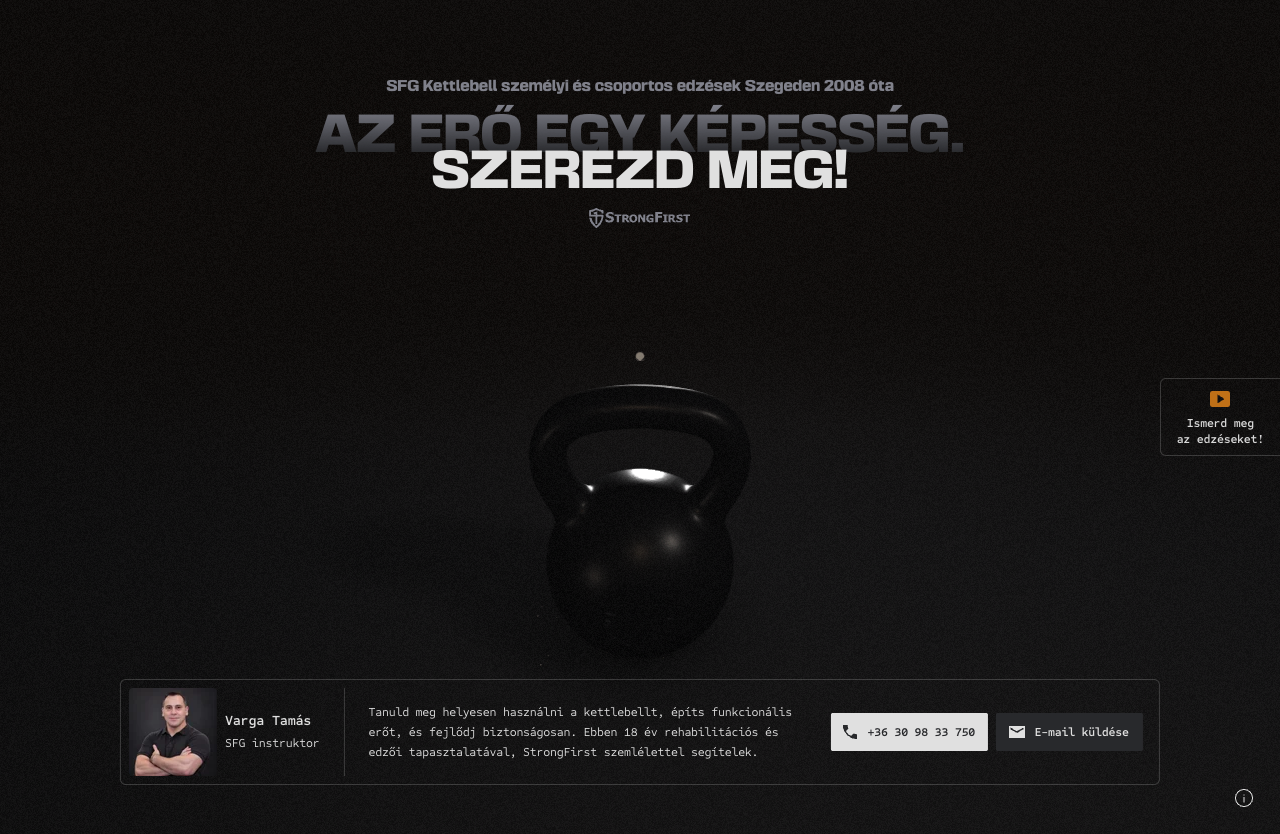
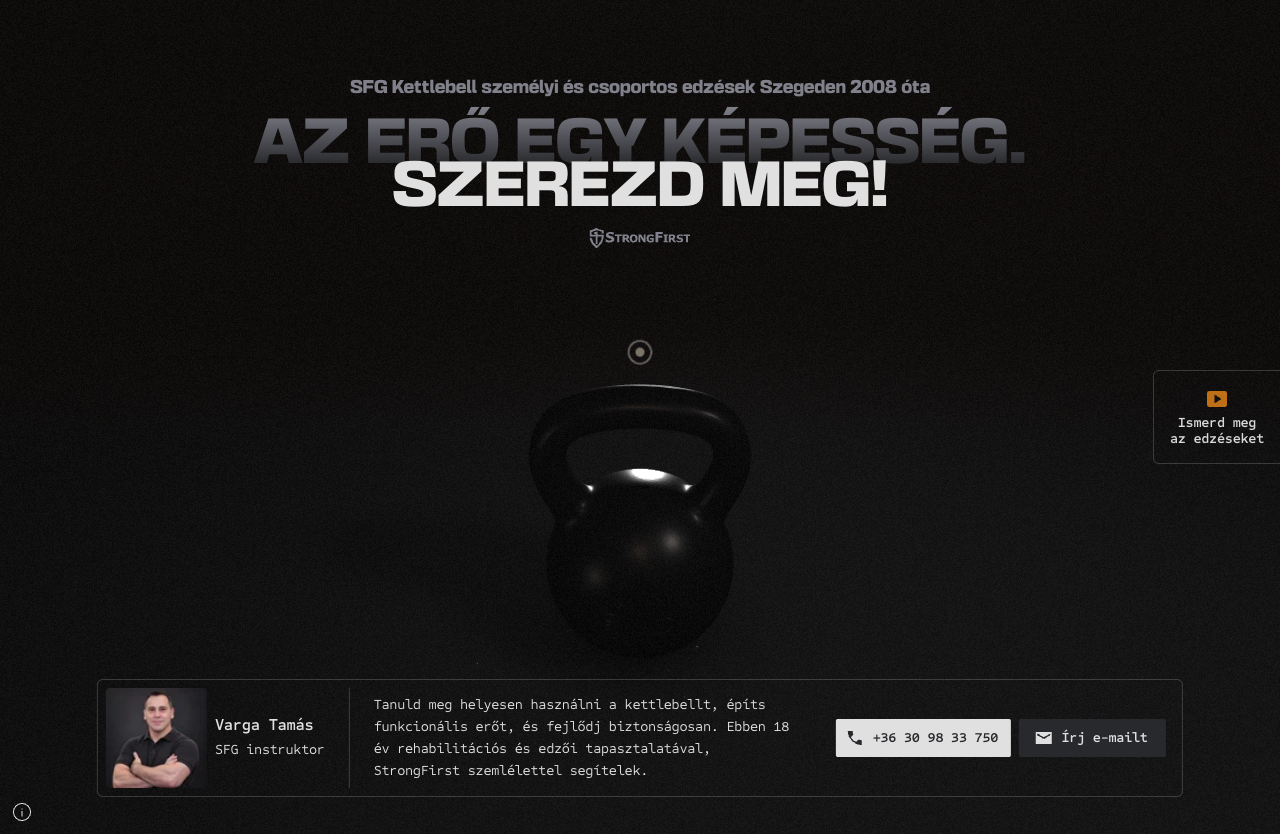
Typography and responsive refinements, Figma sync
- Promo bar gradient background; text sizes synced with the current Figma (eyebrow, tags, name, role, text)
- Avatar 101x100, desktop video tab padding 16, mobile video tab 48px high, panel offsets per Figma
- Desktop H0 headline scaled via --h0-scale (1.19), mobile unchanged
- Tablet (600-959px): wider profile card and video CTA; phones: contact buttons text only
- Buttons, video tab and promo bar text 14px; new texts "Írj e-mailt" and "Ismerd meg az edzéseket"
- Global --fs-boost token kept at 0; docs and screenshots updated

diff --git a/src/styles/global.css b/src/styles/global.css
@@ -20,8 +20,8 @@ body {
   min-height: 100svh;
   font-family: var(--font-mono);
   font-weight: 400;
-  font-size: 10px;
-  line-height: 16px;
+  font-size: calc(10px + var(--fs-boost));
+  line-height: calc(16px + var(--fs-boost));
   letter-spacing: -0.02em;
   background: transparent;
   overflow-x: hidden;
@@ -146,8 +146,8 @@ a {
   display: block;
   width: min-content;
   min-width: 100%;
-  font-size: 14px;
-  line-height: 17px;
+  font-size: calc(16px + var(--fs-boost));
+  line-height: normal;
   letter-spacing: -0.02em;
   color: var(--eyebrow-color);
   transition: color var(--t) var(--ease);
@@ -231,8 +231,8 @@ a {
   padding: 4px 8px;
   border-bottom: 1px solid var(--light-gray-20);
   font-style: italic;
-  font-size: 12px;
-  line-height: 14px;
+  font-size: calc(14px + var(--fs-boost));
+  line-height: calc(22px + var(--fs-boost));
   letter-spacing: -0.02em;
   white-space: nowrap;
   color: var(--light-gray);
@@ -243,7 +243,7 @@ a {
   position: absolute;
   z-index: 2;
   left: 50%;
-  bottom: 54px;
+  bottom: 64px; /* 48px video tab + 16px gap (Figma mobile) */
   transform: translateX(-50%);
   display: flex;
   flex-direction: column;
@@ -274,8 +274,8 @@ a {
 }
 .banner__avatar {
   flex: none;
-  width: 88px;
-  height: 88px;
+  width: 101px;
+  height: 100px;
   border-radius: 4px;
   object-fit: cover;
   object-position: bottom;
@@ -284,17 +284,18 @@ a {
   display: flex;
   flex-direction: column;
   gap: 4px;
-  width: max-content;
+  width: 204px; /* Figma mobile: 101px avatar + 8px gap + 204px = the 313px profile width */
 }
 .banner__name {
   font-weight: 600;
-  font-size: 14px;
-  line-height: normal;
+  font-size: calc(16px + var(--fs-boost));
+  line-height: calc(20px + var(--fs-boost));
   letter-spacing: -0.02em;
 }
 .banner__role {
-  font-size: 12px;
-  line-height: 20px;
+  font-size: calc(14px + var(--fs-boost));
+  line-height: calc(22px + var(--fs-boost));
+  letter-spacing: -0.02em;
   white-space: nowrap;
 }
 .banner__divider {
@@ -305,8 +306,8 @@ a {
   transition: background-color var(--t) var(--ease);
 }
 .banner__text {
-  font-size: 12px;
-  line-height: 20px;
+  font-size: calc(14px + var(--fs-boost));
+  line-height: calc(22px + var(--fs-boost));
   letter-spacing: -0.02em;
 }
 .banner__actions {
@@ -327,8 +328,8 @@ a {
   border: 1px solid transparent;
   border-radius: 2px;
   font-weight: 600;
-  font-size: 12px;
-  line-height: 16px;
+  font-size: calc(14px + var(--fs-boost));
+  line-height: calc(16px + var(--fs-boost));
   letter-spacing: -0.02em;
   white-space: nowrap;
   transition: background-color 0.2s var(--ease), color 0.2s var(--ease), box-shadow 0.2s var(--ease),
@@ -388,7 +389,7 @@ a {
   justify-content: center;
   gap: 4px;
   width: min(330px, calc(100% - 32px));
-  height: 38px;
+  height: 48px; /* Figma mobile video tab */
   padding: 8px;
   border: 1px solid var(--tab-border);
   border-bottom: 0;
@@ -396,8 +397,8 @@ a {
   background: var(--tab-bg);
   color: var(--tab-text);
   font-weight: 600;
-  font-size: 12px;
-  line-height: 16px;
+  font-size: calc(14px + var(--fs-boost));
+  line-height: calc(16px + var(--fs-boost));
   letter-spacing: -0.02em;
   text-align: center;
   transition: background-color var(--t) var(--ease), border-color var(--t) var(--ease),
@@ -443,11 +444,17 @@ a {
   box-sizing: border-box;
   min-height: 36px;
   padding: 8px 16px;
-  background: var(--white);
+  /* Figma gradient: left to right, transparent white at 15.215 %, white at 51.442 %, transparent at 85.226 % */
+  background: linear-gradient(
+    90deg,
+    rgba(255, 255, 255, 0) 15.215%,
+    #fff 51.442%,
+    rgba(255, 255, 255, 0) 85.226%
+  );
   color: var(--black);
   font-weight: 400;
-  font-size: 12px;
-  line-height: 20px;
+  font-size: calc(14px + var(--fs-boost));
+  line-height: calc(20px + var(--fs-boost));
   letter-spacing: -0.02em;
   text-align: center;
   text-wrap: balance;
@@ -473,7 +480,14 @@ a {
 }
 .promo strong {
   font-weight: 600;
-  line-height: 16px;
+  line-height: calc(16px + var(--fs-boost));
+}
+/* Mobile (no Figma frame): the text fills almost the whole bar, so the white plateau is widened and only the outer
+   6 % fade; with the desktop stops the black text would sit on the dark page at the sides. */
+@media (max-width: 959.98px) {
+  .promo {
+    background: linear-gradient(90deg, rgba(255, 255, 255, 0) 0%, #fff 6%, #fff 94%, rgba(255, 255, 255, 0) 100%);
+  }
 }
 @media (prefers-reduced-motion: reduce) {
   .promo,
@@ -513,8 +527,8 @@ a {
 .credit__text {
   padding-left: 8px; /* the gap to the icon belongs to the text, so hovering across it keeps it open */
   font-weight: 500;
-  font-size: 10px;
-  line-height: 12px;
+  font-size: calc(10px + var(--fs-boost));
+  line-height: calc(12px + var(--fs-boost));
   letter-spacing: -0.02em;
   text-align: left;
   color: var(--white);
@@ -616,8 +630,8 @@ a {
   width: 100%;
   padding: 0 16px;
   font-weight: 500;
-  font-size: 9px;
-  line-height: 12px;
+  font-size: calc(9px + var(--fs-boost));
+  line-height: calc(12px + var(--fs-boost));
   letter-spacing: -0.02em;
   text-align: center;
   color: var(--caption-gray);
@@ -629,7 +643,7 @@ a {
   align-items: center;
   justify-content: center;
   padding: 16px;
-  font-size: 10px;
+  font-size: calc(10px + var(--fs-boost));
   text-align: center;
   color: var(--caption-gray);
 }
@@ -666,6 +680,34 @@ a {
 }
 
 /* ================================================================ desktop */
+/* Tablet (600-959px): the mobile layout, but the profile card and the video CTA use the available width
+   (704px max at 768px) instead of the fixed 330px phone width; the two buttons share the card width. */
+@media (min-width: 600px) and (max-width: 959.98px) {
+  .banner,
+  .video-tab {
+    width: min(704px, calc(100% - 64px));
+  }
+  .banner__actions .btn {
+    flex: 1 1 0;
+    justify-content: center;
+  }
+}
+
+/* Phones (below 600px): the contact buttons show text only. Size, padding and text stay as they were. */
+@media (max-width: 599.98px) {
+  .btn img {
+    display: none !important;
+  }
+}
+/* From 360px up the buttons keep the width they had with the icons (the e-mail one is fixed at 147px). Below that
+   (320px) the 270px card cannot hold both at that width, so they shrink to their text. */
+@media (min-width: 360px) and (max-width: 599.98px) {
+  .btn--primary {
+    min-width: 157.5px;
+    justify-content: center;
+  }
+}
+
 @media (min-width: 960px) {
   .br-mobile {
     display: none;
@@ -683,12 +725,14 @@ a {
     width: max-content;
     max-width: calc(100% - 32px);
   }
+  /* H0 headline, desktop only: Figma 48px / 58px / overlap -22px, scaled together by --h0-scale (tokens.css) so the
+     overlapping two-line layout keeps its proportions. */
   .hero__headline {
-    font-size: 48px;
+    font-size: calc(48px * var(--h0-scale));
   }
   .hero__line--textured {
-    margin-bottom: -22px;
-    line-height: 58px;
+    margin-bottom: calc(-22px * var(--h0-scale));
+    line-height: calc(58px * var(--h0-scale));
     background-image: url('../assets/figma/headline-texture-desktop.png');
   }
   :root[data-state='active'] .hero__line--textured {
@@ -696,7 +740,7 @@ a {
       url('../assets/figma/headline-texture-desktop.png');
   }
   .hero__line--accent {
-    line-height: 58px;
+    line-height: calc(58px * var(--h0-scale));
   }
 
   /* tags: two columns around the kettlebell (Figma: col 1 at x=336, col 2 at x=786 in a 1280 frame) */
@@ -725,7 +769,7 @@ a {
   .tag:nth-child(8) { grid-column: 2; grid-row: 4; justify-self: start; } /* fogáserő */
 
   .banner {
-    bottom: calc(49px + var(--panel-shift));
+    bottom: calc(37px + var(--panel-shift)); /* Figma: panel top stays at y 679 (default) / 639 (active) in the 834px frame */
     flex-direction: row;
     gap: 32px;
     width: max-content;
@@ -739,10 +783,13 @@ a {
     flex: 0 1 auto;
     min-width: 0;
   }
+  .banner__details {
+    width: max-content;
+  }
   .banner__divider {
     flex: none;
     width: 1px;
-    height: 88px;
+    height: 100px;
   }
   .banner__text {
     flex: 0 1 430px;
@@ -764,7 +811,7 @@ a {
     flex-direction: column;
     width: auto;
     height: auto;
-    padding: 8px 16px;
+    padding: 16px; /* Figma desktop video tab */
     border: 1px solid var(--tab-border);
     border-right: 0;
     border-radius: 6px 0 0 6px;

diff --git a/src/styles/tokens.css b/src/styles/tokens.css
@@ -19,6 +19,12 @@
   --font-display: 'Basement Grotesque', 'Arial Black', Impact, sans-serif;
   --font-mono: 'Sometype Mono', ui-monospace, 'SFMono-Regular', Menlo, Consolas, monospace;
 
+  /* global text size boost: added to every body/UI font size and line height (not the hero headline). 0px = Figma sizes. */
+  --fs-boost: 0px; /* 0px = exact Figma sizes; raise to enlarge all text at once */
+
+  /* H0 headline scale, desktop only (>=960px). 1 = Figma size (48px); 1.19 = about +9px (+7pt). Mobile ignores it. */
+  --h0-scale: 1.19;
+
   /* motion */
   --ease: cubic-bezier(0.2, 0.7, 0.2, 1);
   --ease-in: cubic-bezier(0.5, 0, 0.75, 0.3);

diff --git a/docs/02-layout-and-design.md b/docs/02-layout-and-design.md
@@ -91,3 +91,9 @@ Unchanged: `assets/scene.splinecode`, `assets/video.mp4`, `assets/BasementGrotes
 - **Promo bar (Figma 2154:625, updated design):** white background, no border, 24 px orange bell icon (`src/assets/figma/icon-notifications-active.svg`, exported from Figma), 16 px gap, padding 8/16, text Sometype Mono 12 px black, -0.24 px, first sentence SemiBold (12/16), second Regular (12/20); full width, 40 px high on desktop (measured 1280×40; icon at x 371, text 497 px wide, as in Figma), two text lines / 56 px on a 393 px wide phone (no mobile frame). Fixed overlay (`position: fixed; top: 0`, `pointer-events: none` always): layout-shift score 0; hero, canvas and info panel rects identical hidden and visible on desktop and mobile. Behaviour: shown on every page load including reloads (no `sessionStorage`, no restriction; verified: after a reload it appears again, storage empty), 3 s after the load event, visible 6 s (measured 3192 ms → 9194 ms), slide-down + fade-in 600 ms, fade-out + slide-up 500 ms, no repetition on the same load. `prefers-reduced-motion`: fade only. Configuration: `promoBar` in `src/config.ts` (`firstDelayMs`, `visibleMs`, `enterMs`, `exitMs`). Screenshots: `docs/screenshots/promo-{desktop,mobile}-{hidden,visible}.png` (the visible ones were captured with the state held, because the software-rendered page is too slow to screenshot within 6 s).
 - **Page background set to black (design-owner decision):** `--page-bg` is now `#000` in the default state on desktop and mobile (previously `#18191b` / `#141414`); the mobile active state also uses `#000`. `theme-color` meta is `#000000`. Unchanged: the Spline scene's own backdrop, the orange active-state background on desktop, and component backgrounds (promo bar, panel, tab, modal `#141414`). Verified at 1280×834, 393×872 and 800×1100: `html` and `.stage` compute to `rgb(0,0,0)`, no horizontal overflow. With the scene rendered, the canvas covers the page background, so the visible look is the scene's own backdrop (unchanged); the black shows only where the canvas does not cover (fallback or scene unavailable, and during load).
 - **Promo bar icon 20 px (updated Figma):** bell icon 20×20 (new export in `src/assets/figma/icon-notifications-active.svg`); the bar is therefore 36 px high on desktop as in Figma (icon x 373, text x 409, 8 px top; measured 1280×36). Mobile unchanged (two text lines, 56 px). Hero and canvas positions unchanged. Visible-state screenshots re-captured (cropped to the top 80 px).
+- **Global text size boost (design-owner request) via one token:** `--fs-boost` in `src/styles/tokens.css` is added to every font size and fixed pixel line height (`calc(Npx + var(--fs-boost))`): **+2px on desktop (≥960px), +1px on mobile**. Set it to `0px` to restore the exact Figma sizes (one-line revert). Not boosted: the hero headline (image-filled texture and Figma-fixed line boxes); on mobile also the hero eyebrow and the two panel buttons (`--fs-boost: 0px` on `.hero__eyebrow, .btn` below 960px), because the fixed 288px eyebrow would wrap to 3 lines (pushing the headline down 20 px) and the two buttons fill the 312px panel row exactly (they overflowed by 9 px with +1px). Measured, no horizontal overflow at 1280, 960, 393 and 360 px. Desktop: the banner text wraps to 4 lines (was 3) inside the unchanged 106 px panel; the label tags grow wider (204 px) and the video tab grows from 120 to 135 px wide, text still two lines. Mobile: the panel is 282 px high (was 277).
+- **Promo bar gradient (Figma 2154:625, current):** `linear-gradient(90deg, rgba(255,255,255,0) 15.215%, #fff 51.442%, rgba(255,255,255,0) 85.226%)` on desktop. On mobile (no Figma frame) the text spans almost the full bar, so with those stops the black text started on the transparent (dark) zone and was unreadable; mobile uses `transparent 0%, #fff 6%, #fff 94%, transparent 100%` (design-owner confirmation pending). Text 14px on desktop (12 + 2), 13px on mobile; bar 38 px high on desktop, 58 px on mobile.
+- **Text boost reverted + sync with the current Figma (frames 2119:184/162/167/148):** `--fs-boost` is `0px` again (token kept, the mobile exceptions removed). Updated from Figma: hero eyebrow 16px / line-height normal / -0.32px (was 14); tags 14/22 / -0.28px (was 12/14); banner name 16/20 (was 14/normal), role 14/22 (was 12/20), banner text 14/22 (was 12/20), all letter-spacing -0.02em; buttons and video tab text unchanged (12/16). Avatar 101×100 (was 88×88; the active desktop frame has 100×100, the other frames 101×100), desktop divider 100 px high, mobile details column 204 px wide. Desktop video tab padding 16 px on all sides (was 8/16): measured 120×94 px, equal to the Figma tab (16+24+4+32+16 + borders). Mobile video tab height 48 px (was 38). Consequential position changes so the Figma positions hold: desktop panel `bottom: 37px` (panel top at y 679 default / 639 active in the 834 px frame, was 49 px); mobile panel `bottom: 64px` (48 px tab + 16 px gap, was 54 px). Measured at 1280×834: banner 1068×118 at y 679, text 430 px / 4 lines, avatar 101×100, tab 120×94; 393×872: banner 330×321, tab 330×48; no horizontal overflow at 1280, 960 and 393 px. Comparison images: `docs/screenshots/compare-{desktop,mobile}-{default,active}.png` (Figma left, implementation right). Not changed (not requested): tag texts ("és" in the mobile Figma vs "+" in code), the mobile tag layout (the mobile Figma now shows two horizontal rows, code keeps the vertical column).
+- **H0 headline enlarged on desktop only (design-owner request, deviates from Figma 48 px):** `--h0-scale: 1.19` in `src/styles/tokens.css`; inside the ≥960px media block the headline font size, the line height (58 px) and the line overlap (-22 px) are all multiplied by it, so the overlapping two-line layout keeps its proportions. Result: 57.12 px (about +9 px, +6.8 pt; line box 69 px, overlap -26 px). The headline is 773 px wide (was 650), the second line stays centred and the first line keeps the texture fill (image is `background-size: cover`). No new line breaks (nowrap); no horizontal overflow at 1280 and 960 px; the StrongFirst logo moves from y 217 to 228. Mobile is untouched (32 px, hero 288×195, measured identical). Revert: set `--h0-scale: 1`.
+- **Responsive refinements (design-owner request):** (1) Tablet 600-959 px (checked at 768×1024): the profile card and the bottom video CTA use `min(704px, 100% - 64px)` instead of the fixed 330 px (card 704×255 at 768, was 330×321; 3 text lines instead of 6; panel top at y 705), the two contact buttons share the card width (339 px each, icons kept). Desktop ≥960 px and phones are unchanged. (2) Phones below 600 px: the icons in the phone and e-mail buttons are hidden (`display: none`), text only; padding, font and height are unchanged. From 360 px up the buttons keep their previous widths (157.5 / 146.5 px at 393 px); at 320 px the 270 px card cannot hold both at that width (they overflowed the card by 30 px before), so they shrink to their text (130 and 132 px) and now fit inside the card. No horizontal overflow at 768, 393 and 320 px. Screenshots: `tablet-768-default/active.png`, `mobile-320-default.png`; at 320×640 the fixed video tab overlays the lower part of the card in the first viewport (page scrolls, unchanged behaviour).
+- **Button / tab / promo text 14 px and two text changes (design-owner request):** `.btn`, `.video-tab` and `.promo` font size 12 → 14 px (weight, line-height 16/16/20 and letter-spacing -0.02em unchanged; the promo bar's SemiBold sentence inherits 14 px). This deviates from the Figma 12 px. Texts: video CTA "Ismerd meg az edzéseket!" → "Ismerd meg az edzéseket" (no exclamation mark), e-mail button "E-mail küldése" → "Írj e-mailt". Measured, no horizontal overflow at 1280, 960, 768, 393 and 320 px: desktop primary button 175 px wide (was 158), e-mail button fixed 147 px, panel 1086 px (was 1068), video tab 127×94 (was 120×94), promo bar 36 px high on desktop, 56 px at 393 px and 76 px (3 lines) at 320 px; at 393 px the buttons are 157.5 + 146.5 px and fit the card, at 320 px 147 + 115 px.

diff --git a/CLAUDE.md b/CLAUDE.md
@@ -298,7 +298,7 @@ Design owner's update (supersedes the earlier 5 s / 6 s / 45 s repeat and the on
 - Fixed overlay at the top of the viewport.
 - Must not push or shift the underlying content.
 - Must not cause layout shifts (CLS).
-- Match Figma dimensions, typography and colors (current Figma: white background, no border, 24px orange bell icon `assets` `src/assets/figma/icon-notifications-active.svg`, 16px gap, 8px/16px padding, Sometype Mono 12px black, letter-spacing -0.24px, first sentence SemiBold, second Regular; 40 px high on desktop; on narrow screens the text wraps to two lines).
+- Match Figma dimensions, typography and colors (current Figma: horizontal gradient background (transparent white at 15.215 %, white at 51.442 %, transparent at 85.226 %; on mobile the white plateau is widened), no border, 24px orange bell icon `assets` `src/assets/figma/icon-notifications-active.svg`, 16px gap, 8px/16px padding, Sometype Mono black (14px by design-owner decision; Figma 12px), letter-spacing -0.02em, first sentence SemiBold, second Regular; 40 px high on desktop; on narrow screens the text wraps to two lines).
 - Work on desktop and mobile.
 - Use subtle slide-down and fade-in animation.
 - Use fade-out and slide-up when disappearing.
